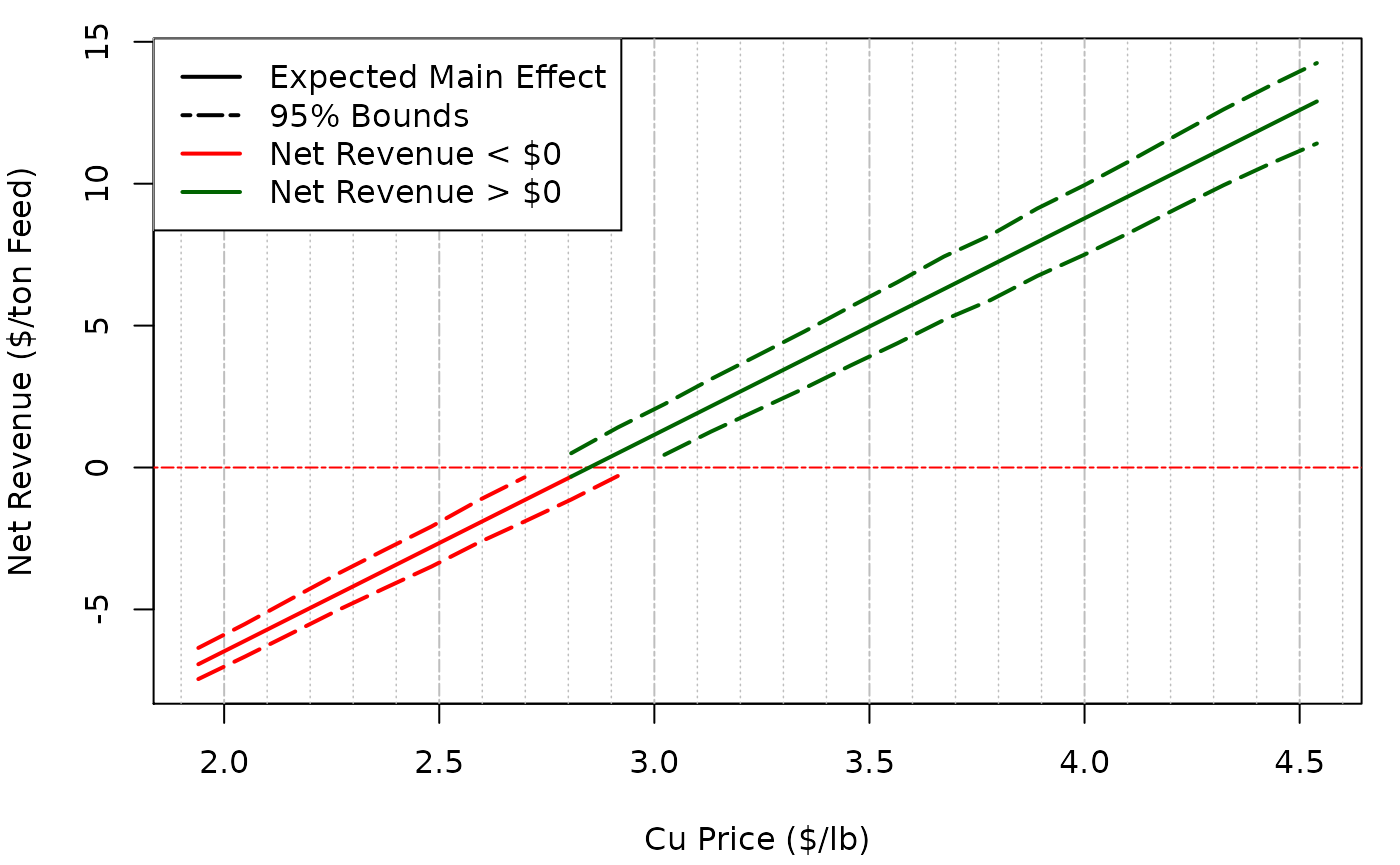
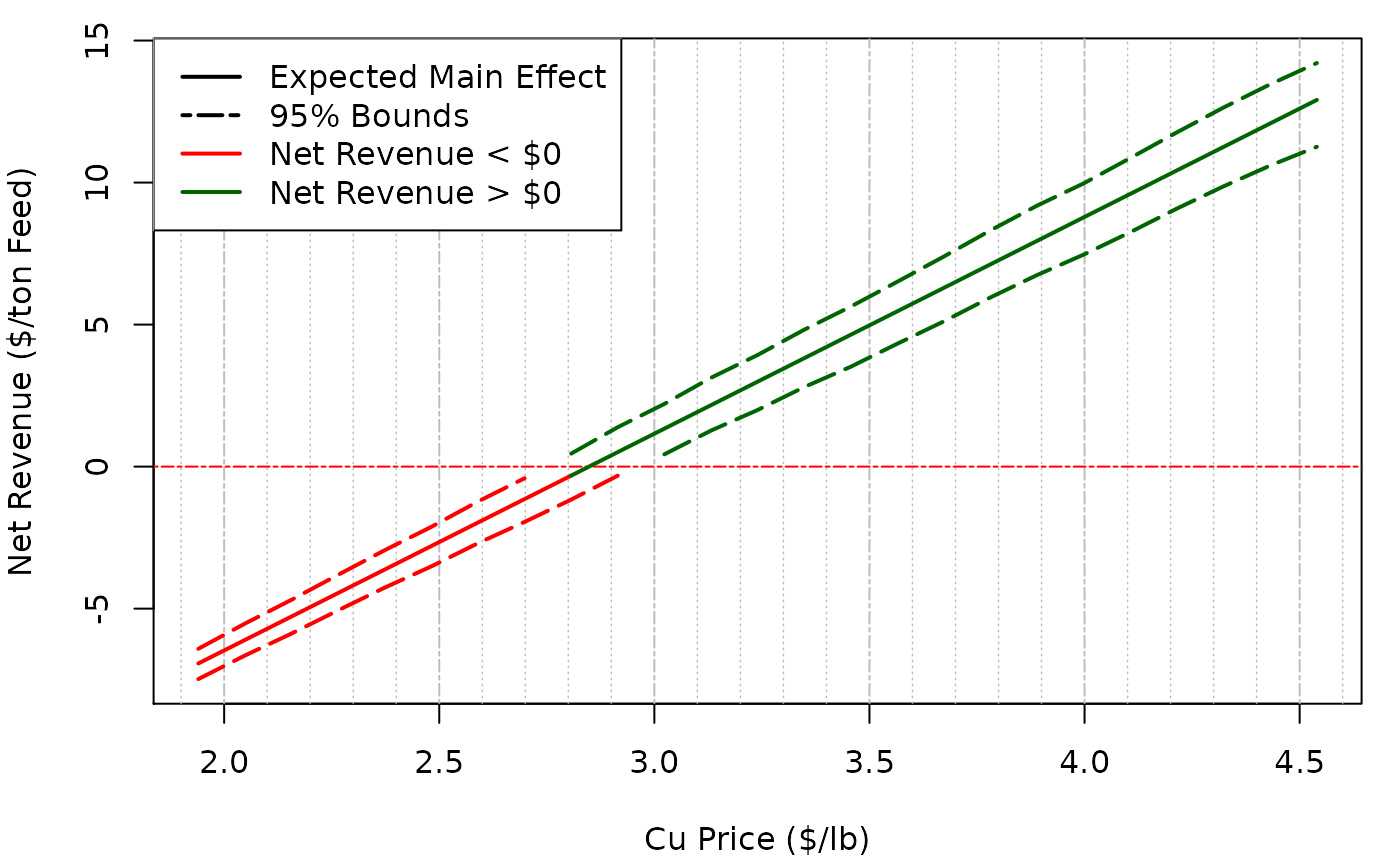
update vignette and readme

diff --git a/docs/articles/Two_Node_Process.html b/docs/articles/Two_Node_Process.html
@@ -89,7 +89,7 @@
       <h1 data-toc-skip>Two_Node_Process</h1>
                         <h4 class="author">Scott Koermer</h4>
             
-            <h4 class="date">2020-11-01</h4>
+            <h4 class="date">2020-11-04</h4>
       
       <small class="dont-index">Source: <a href="https://github.com/skoermer/BayesMassBal/blob/master/vignettes/Two_Node_Process.Rmd"><code>vignettes/Two_Node_Process.Rmd</code></a></small>
       <div class="hidden name"><code>Two_Node_Process.Rmd</code></div>
@@ -152,33 +152,33 @@ y_2 &amp;= y_3 +y_5
 <span class="co">#&gt; $beta</span>
 <span class="co">#&gt; $beta$CuFeS2</span>
 <span class="co">#&gt;   index         cd      ess</span>
-<span class="co">#&gt; 1     1 -1.3664921 2900.000</span>
-<span class="co">#&gt; 2     2 -0.5771586 2670.774</span>
-<span class="co">#&gt; 3     3  1.1716615 2900.000</span>
+<span class="co">#&gt; 1     1 -1.3081458 2748.766</span>
+<span class="co">#&gt; 2     2 -0.5626648 2900.000</span>
+<span class="co">#&gt; 3     3 -0.5635589 3029.192</span>
 <span class="co">#&gt; </span>
 <span class="co">#&gt; $beta$gangue</span>
-<span class="co">#&gt;   index         cd      ess</span>
-<span class="co">#&gt; 1     1  0.1375908 2900.000</span>
-<span class="co">#&gt; 2     2 -1.3180482 2900.000</span>
-<span class="co">#&gt; 3     3 -0.2918427 1996.364</span>
+<span class="co">#&gt;   index          cd      ess</span>
+<span class="co">#&gt; 1     1  1.24650314 2900.000</span>
+<span class="co">#&gt; 2     2 -0.07651024 2634.594</span>
+<span class="co">#&gt; 3     3  0.04475273 1877.727</span>
 <span class="co">#&gt; </span>
 <span class="co">#&gt; </span>
 <span class="co">#&gt; $Sig</span>
 <span class="co">#&gt; $Sig[[1]]</span>
-<span class="co">#&gt;   index          cd      ess</span>
-<span class="co">#&gt; 1     1 -0.01617951 2496.295</span>
-<span class="co">#&gt; 2     2 -1.13062891 2900.000</span>
-<span class="co">#&gt; 3     3  0.98360733 2673.166</span>
-<span class="co">#&gt; 4     4 -1.73604952 2442.785</span>
-<span class="co">#&gt; 5     5 -0.44081709 2043.940</span>
+<span class="co">#&gt;   index         cd      ess</span>
+<span class="co">#&gt; 1     1  1.3240367 2900.000</span>
+<span class="co">#&gt; 2     2 -1.3999882 2900.000</span>
+<span class="co">#&gt; 3     3  1.1727251 2497.905</span>
+<span class="co">#&gt; 4     4 -0.6379909 2175.162</span>
+<span class="co">#&gt; 5     5  1.1427846 1737.076</span>
 <span class="co">#&gt; </span>
 <span class="co">#&gt; $Sig[[2]]</span>
-<span class="co">#&gt;   index        cd      ess</span>
-<span class="co">#&gt; 1     1 -1.788549 2600.381</span>
-<span class="co">#&gt; 2     2  1.100626 2722.385</span>
-<span class="co">#&gt; 3     3  1.100864 2236.776</span>
-<span class="co">#&gt; 4     4  1.405016 2652.267</span>
-<span class="co">#&gt; 5     5  1.037996 1761.950</span></pre></div>
+<span class="co">#&gt;   index          cd      ess</span>
+<span class="co">#&gt; 1     1  0.57932685 2900.000</span>
+<span class="co">#&gt; 2     2  0.47959897 2312.948</span>
+<span class="co">#&gt; 3     3  0.06979104 2058.971</span>
+<span class="co">#&gt; 4     4 -0.13706853 2610.969</span>
+<span class="co">#&gt; 5     5  0.38636483 2091.700</span></pre></div>
 <p>The model with independent variances may not be the best fitting model. Models specifying covariance between sample locations for a single component, and covariance between components at a single location are fit.</p>
 <div class="sourceCode" id="cb10"><pre class="downlit">
 <span class="va">component.samples</span> <span class="op">&lt;-</span> <span class="fu"><a href="../reference/BMB.html">BMB</a></span><span class="op">(</span>X <span class="op">=</span> <span class="va">X</span>, y <span class="op">=</span> <span class="va">y</span>, cov.structure <span class="op">=</span> <span class="st">"component"</span>, BTE <span class="op">=</span> <span class="fu"><a href="https://rdrr.io/r/base/c.html">c</a></span><span class="op">(</span><span class="fl">100</span>,<span class="fl">3000</span>,<span class="fl">1</span><span class="op">)</span>, lml <span class="op">=</span> <span class="cn">TRUE</span>, verb <span class="op">=</span> <span class="fl">0</span><span class="op">)</span></pre></div>
@@ -187,14 +187,49 @@ y_2 &amp;= y_3 +y_5
 <p>Computing <span class="math inline">\(\log(\mathrm{Bayes Factor})\)</span> for <span class="math inline">\(BF = p(y|\texttt{indep})/p(y|\texttt{component})\)</span>:</p>
 <div class="sourceCode" id="cb12"><pre class="downlit">
 <span class="va">indep.samples</span><span class="op">$</span><span class="va">lml</span> <span class="op">-</span> <span class="va">component.samples</span><span class="op">$</span><span class="va">lml</span>
-<span class="co">#&gt; [1] -126.8625</span></pre></div>
+<span class="co">#&gt; [1] -126.8837</span></pre></div>
 <p>Then comparing <span class="math inline">\(p(y|\texttt{component})\)</span> to <span class="math inline">\(p(y|\texttt{location})\)</span></p>
 <div class="sourceCode" id="cb13"><pre class="downlit">
 <span class="va">component.samples</span><span class="op">$</span><span class="va">lml</span> <span class="op">-</span> <span class="va">location.samples</span><span class="op">$</span><span class="va">lml</span>
-<span class="co">#&gt; [1] 0.8138755</span></pre></div>
+<span class="co">#&gt; [1] 0.837598</span></pre></div>
 <p>Shows there is little difference between the models where <code>cov.structure  = "location"</code> and <code>cov.structure = "component"</code>, but both of these models better explain the data than <code>cov.structure = "indep"</code>.</p>
-<p>The main effect of a variable independent of the process can be calculated by supplying a function, <code>fn</code> that takes the arguments of mass balanced flow rates <code>ybal</code>, and the random independent and uniformly distributed variables <code>x</code>. Information can be gained on the main effect of a particular element of <code>x</code>, <code>xj</code>, on <code>fn</code> using the <code>mainEff</code> function. Output from <code>mainEff</code> includes information on the distribution of <span class="math inline">\(E_x\lbrack f(x,y_{\mathrm{bal}})|x_j \rbrack\)</span>.</p>
+<p>We can view a summary of the favored model by passing a <code>BayesMassBal</code> object to the <code>summary</code> function. While not done in this case, the summary table can be saved by passing the desired name of a <code>*.csv</code> file to the <code>export</code> argument.</p>
 <div class="sourceCode" id="cb14"><pre class="downlit">
+<span class="fu"><a href="https://rdrr.io/r/base/summary.html">summary</a></span><span class="op">(</span><span class="va">component.samples</span>, export <span class="op">=</span> <span class="cn">NA</span><span class="op">)</span>
+<span class="co">#&gt; Mass Flow Rates:</span>
+<span class="co">#&gt; </span>
+<span class="co">#&gt; CuFeS2:</span>
+<span class="co">#&gt; --------------------</span>
+<span class="co">#&gt;  Sampling Location Expected Value     95% LB     95% UB</span>
+<span class="co">#&gt;                  1     1.19877677 1.14788858 1.24800946</span>
+<span class="co">#&gt;                  2     1.17352185 1.12585598 1.22402962</span>
+<span class="co">#&gt;                  3     1.11088062 1.05976402 1.16400022</span>
+<span class="co">#&gt;                  4     0.02525492 0.01669105 0.03439978</span>
+<span class="co">#&gt;                  5     0.06264123 0.05129485 0.07259150</span>
+<span class="co">#&gt; </span>
+<span class="co">#&gt; gangue:</span>
+<span class="co">#&gt; --------------------</span>
+<span class="co">#&gt;  Sampling Location Expected Value    95% LB      95% UB</span>
+<span class="co">#&gt;                  1    100.2631315 95.251358 104.9517552</span>
+<span class="co">#&gt;                  2      6.6531438  5.806849   7.4503328</span>
+<span class="co">#&gt;                  3      0.2601069  0.225270   0.2946978</span>
+<span class="co">#&gt;                  4     93.6099877 89.112168  98.2607143</span>
+<span class="co">#&gt;                  5      6.3930368  5.575435   7.1849911</span>
+<span class="co">#&gt; </span>
+<span class="co">#&gt; Total:</span>
+<span class="co">#&gt; --------------------</span>
+<span class="co">#&gt;  Sampling Location Expected Value    95% LB     95% UB</span>
+<span class="co">#&gt;                  1     101.461908 96.434486 106.132979</span>
+<span class="co">#&gt;                  2       7.826666  6.966608   8.622335</span>
+<span class="co">#&gt;                  3       1.370988  1.305736   1.431682</span>
+<span class="co">#&gt;                  4      93.635243 89.127466  98.288014</span>
+<span class="co">#&gt;                  5       6.455678  5.642535   7.253914</span>
+<span class="co">#&gt; </span>
+<span class="co">#&gt; </span>
+<span class="co">#&gt; log-marginal likelihood:</span>
+<span class="co">#&gt; -66.0208251200651</span></pre></div>
+<p>The main effect of a variable independent of the process can be calculated by supplying a function, <code>fn</code> that takes the arguments of mass balanced flow rates <code>ybal</code>, and the random independent and uniformly distributed variables <code>x</code>. Information can be gained on the main effect of a particular element of <code>x</code>, <code>xj</code>, on <code>fn</code> using the <code>mainEff</code> function. Output from <code>mainEff</code> includes information on the distribution of <span class="math inline">\(E_x\lbrack f(x,y_{\mathrm{bal}})|x_j \rbrack\)</span>.</p>
+<div class="sourceCode" id="cb15"><pre class="downlit">
 <span class="va">fn_example</span> <span class="op">&lt;-</span> <span class="kw">function</span><span class="op">(</span><span class="va">X</span>,<span class="va">ybal</span><span class="op">)</span><span class="op">{</span>
       <span class="va">cu.frac</span> <span class="op">&lt;-</span> <span class="fl">63.546</span><span class="op">/</span><span class="fl">183.5</span>
       <span class="va">feed.mass</span> <span class="op">&lt;-</span> <span class="va">ybal</span><span class="op">$</span><span class="va">CuFeS2</span><span class="op">[</span><span class="fl">1</span><span class="op">]</span> <span class="op">+</span> <span class="va">ybal</span><span class="op">$</span><span class="va">gangue</span><span class="op">[</span><span class="fl">1</span><span class="op">]</span>
@@ -211,7 +246,7 @@ y_2 &amp;= y_3 +y_5
                    ncol <span class="op">=</span> <span class="fl">6</span>, nrow <span class="op">=</span> <span class="fl">2</span><span class="op">)</span>
 <span class="va">mE_example</span> <span class="op">&lt;-</span> <span class="fu"><a href="../reference/mainEff.html">mainEff</a></span><span class="op">(</span><span class="va">indep.samples</span>, fn <span class="op">=</span> <span class="st">"fn_example"</span>,rangex <span class="op">=</span>  <span class="va">rangex</span>,xj <span class="op">=</span> <span class="fl">3</span>, N <span class="op">=</span> <span class="fl">25</span>, res <span class="op">=</span> <span class="fl">25</span><span class="op">)</span></pre></div>
 <p>A plot of the output can be made. To get lines that are better connected, change increase <code>N</code> in the <code>mainEff</code> function.</p>
-<div class="sourceCode" id="cb15"><pre class="downlit">
+<div class="sourceCode" id="cb16"><pre class="downlit">
 <span class="va">m.sens</span><span class="op">&lt;-</span> <span class="va">mE_example</span><span class="op">$</span><span class="va">fn.out</span><span class="op">[</span><span class="fl">2</span>,<span class="op">]</span>
 <span class="va">hpd.sens</span> <span class="op">&lt;-</span> <span class="va">mE_example</span><span class="op">$</span><span class="va">fn.out</span><span class="op">[</span><span class="fu"><a href="https://rdrr.io/r/base/c.html">c</a></span><span class="op">(</span><span class="fl">1</span>,<span class="fl">3</span><span class="op">)</span>,<span class="op">]</span>
 <span class="fu"><a href="https://rdrr.io/r/base/row.names.html">row.names</a></span><span class="op">(</span><span class="va">hpd.sens</span><span class="op">)</span> <span class="op">&lt;-</span> <span class="fu"><a href="https://rdrr.io/r/base/c.html">c</a></span><span class="op">(</span><span class="st">"upper"</span>, <span class="st">"lower"</span><span class="op">)</span>
@@ -248,7 +283,7 @@ y_2 &amp;= y_3 +y_5
 
 <span class="fu"><a href="https://rdrr.io/r/graphics/legend.html">legend</a></span><span class="op">(</span><span class="st">"topleft"</span>, legend <span class="op">=</span> <span class="fu"><a href="https://rdrr.io/r/base/c.html">c</a></span><span class="op">(</span><span class="st">"Expected Main Effect"</span>, <span class="st">"95% Bounds"</span>, <span class="st">"Net Revenue &lt; $0"</span>, <span class="st">"Net Revenue &gt; $0"</span><span class="op">)</span>, col <span class="op">=</span> <span class="fu"><a href="https://rdrr.io/r/base/c.html">c</a></span><span class="op">(</span><span class="st">"black"</span>,<span class="st">"black"</span>,<span class="st">"red"</span>, <span class="st">"darkgreen"</span><span class="op">)</span>, lty <span class="op">=</span> <span class="fu"><a href="https://rdrr.io/r/base/c.html">c</a></span><span class="op">(</span><span class="fl">1</span>,<span class="fl">6</span>,<span class="fl">1</span>,<span class="fl">1</span><span class="op">)</span>, lwd <span class="op">=</span> <span class="fu"><a href="https://rdrr.io/r/base/c.html">c</a></span><span class="op">(</span><span class="fl">2</span>,<span class="fl">2</span>,<span class="fl">2</span>,<span class="fl">2</span><span class="op">)</span>, bg <span class="op">=</span> <span class="st">"white"</span><span class="op">)</span></pre></div>
 <p><img src="Two_Node_Process_files/figure-html/maineffplot-1.png" width="700"></p>
-<div class="sourceCode" id="cb16"><pre class="downlit">
+<div class="sourceCode" id="cb17"><pre class="downlit">
 
 <span class="fu"><a href="https://rdrr.io/r/graphics/par.html">par</a></span><span class="op">(</span><span class="va">opar</span><span class="op">)</span></pre></div>
   </div>

diff --git a/docs/index.html b/docs/index.html
@@ -113,8 +113,8 @@
 <li>The <code><a href="reference/importObservations.html">importObservations()</a></code> function can be used to import mass flow rate data from a <code>*.csv</code> file into <code>R</code> and organize it for use with the <code>BayesMassBal</code> package.</li>
 <li>Toy data sets can be simulated using the <code><a href="reference/twonodeSim.html">twonodeSim()</a></code> function for educational purposes, or for comparing the performance of Bayesian data reconciliation methods to other methods.</li>
 <li>Using the <code><a href="reference/constrainProcess.html">constrainProcess()</a></code> function, one can specify linear constraints in <code>R</code> or import them from a <code>*.csv</code> file.</li>
-<li>The <strong>B</strong>ayesian <strong>M</strong>ass <strong>B</strong>alance function, <code><a href="reference/BMB.html">BMB()</a></code>, then can be used to generate samples from target distributions and approximate the log marginal likelihood for a specified model.<br>
-</li>
+<li>The <strong>B</strong>ayesian <strong>M</strong>ass <strong>B</strong>alance function, <code><a href="reference/BMB.html">BMB()</a></code>, then can be used to generate samples from target distributions and approximate the log marginal likelihood for a specified model.</li>
+<li>A summary table can be viewed in the console and saved using <code><a href="reference/summary.BayesMassBal.html">summary.BayesMassBal()</a></code>.</li>
 <li>The output from <code><a href="reference/BMB.html">BMB()</a></code> is a <code>"BayesMassBal"</code> object, which can be fed to <code><a href="reference/plot.BayesMassBal.html">plot.BayesMassBal()</a></code> to easily plot the results.</li>
 <li>A <code>"BayesMassBal"</code> object can also be used with the <code>BayesMassBal</code> function <code><a href="reference/mainEff.html">mainEff()</a></code> to inspect how the main effect of a random variable and uncertainty in process performance are related.</li>
 </ul>
@@ -154,6 +154,7 @@
 <li><a href="https://travis-ci.org/skoermer/BayesMassBal"><img src="https://travis-ci.org/skoermer/BayesMassBal.svg?branch=master" alt="Travis build status"></a></li>
 <li><a href="https://ci.appveyor.com/project/skoermer/BayesMassBal"><img src="https://ci.appveyor.com/api/projects/status/github/skoermer/BayesMassBal?branch=master&amp;svg=true" alt="AppVeyor build status"></a></li>
 <li><a href="https://codecov.io/gh/skoermer/BayesMassBal?branch=master"><img src="https://codecov.io/gh/skoermer/BayesMassBal/branch/master/graph/badge.svg" alt="Codecov test coverage"></a></li>
+<li><a href="https://travis-ci.com/skoermer/BayesMassBal"><img src="https://travis-ci.com/skoermer/BayesMassBal.svg?branch=master" alt="Travis build status"></a></li>
 </ul>
 </div>
 </div>

diff --git a/docs/reference/summary.BayesMassBal.html b/docs/reference/summary.BayesMassBal.html
@@ -136,13 +136,13 @@
     </div>
 
     <pre class="usage"><span class='co'># S3 method for BayesMassBal</span>
-<span class='fu'><a href='https://rdrr.io/r/base/summary.html'>summary</a></span><span class='op'>(</span><span class='va'>x</span>, export <span class='op'>=</span> <span class='cn'>NA</span>, <span class='va'>...</span><span class='op'>)</span></pre>
+<span class='fu'><a href='https://rdrr.io/r/base/summary.html'>summary</a></span><span class='op'>(</span><span class='va'>object</span>, export <span class='op'>=</span> <span class='cn'>NA</span>, <span class='va'>...</span><span class='op'>)</span></pre>
 
     <h2 class="hasAnchor" id="arguments"><a class="anchor" href="#arguments"></a>Arguments</h2>
     <table class="ref-arguments">
     <colgroup><col class="name" /><col class="desc" /></colgroup>
     <tr>
-      <th>x</th>
+      <th>object</th>
       <td><p>A <code>BayesMassBal</code> object returned from the <code><a href='BMB.html'>BMB</a></code> function</p></td>
     </tr>
     <tr>

diff --git a/README.md b/README.md
@@ -11,6 +11,8 @@ status](https://travis-ci.org/skoermer/BayesMassBal.svg?branch=master)](https://
 status](https://ci.appveyor.com/api/projects/status/github/skoermer/BayesMassBal?branch=master&svg=true)](https://ci.appveyor.com/project/skoermer/BayesMassBal)
 [![Codecov test
 coverage](https://codecov.io/gh/skoermer/BayesMassBal/branch/master/graph/badge.svg)](https://codecov.io/gh/skoermer/BayesMassBal?branch=master)
+[![Travis build
+status](https://travis-ci.com/skoermer/BayesMassBal.svg?branch=master)](https://travis-ci.com/skoermer/BayesMassBal)
 <!-- badges: end -->
 
 The goal of BayesMassBal is to allow users to easily conduct Bayesian
@@ -66,7 +68,9 @@ Functions are available to aid in Bayesian data reconciliation.
     constraints in `R` or import them from a `*.csv` file.
   - The **B**ayesian **M**ass **B**alance function, `BMB()`, then can be
     used to generate samples from target distributions and approximate
-    the log marginal likelihood for a specified model.  
+    the log marginal likelihood for a specified model.
+  - A summary table can be viewed in the console and saved using
+    `summary.BayesMassBal()`.
   - The output from `BMB()` is a `"BayesMassBal"` object, which can be
     fed to `plot.BayesMassBal()` to easily plot the results.
   - A `"BayesMassBal"` object can also be used with the `BayesMassBal`
